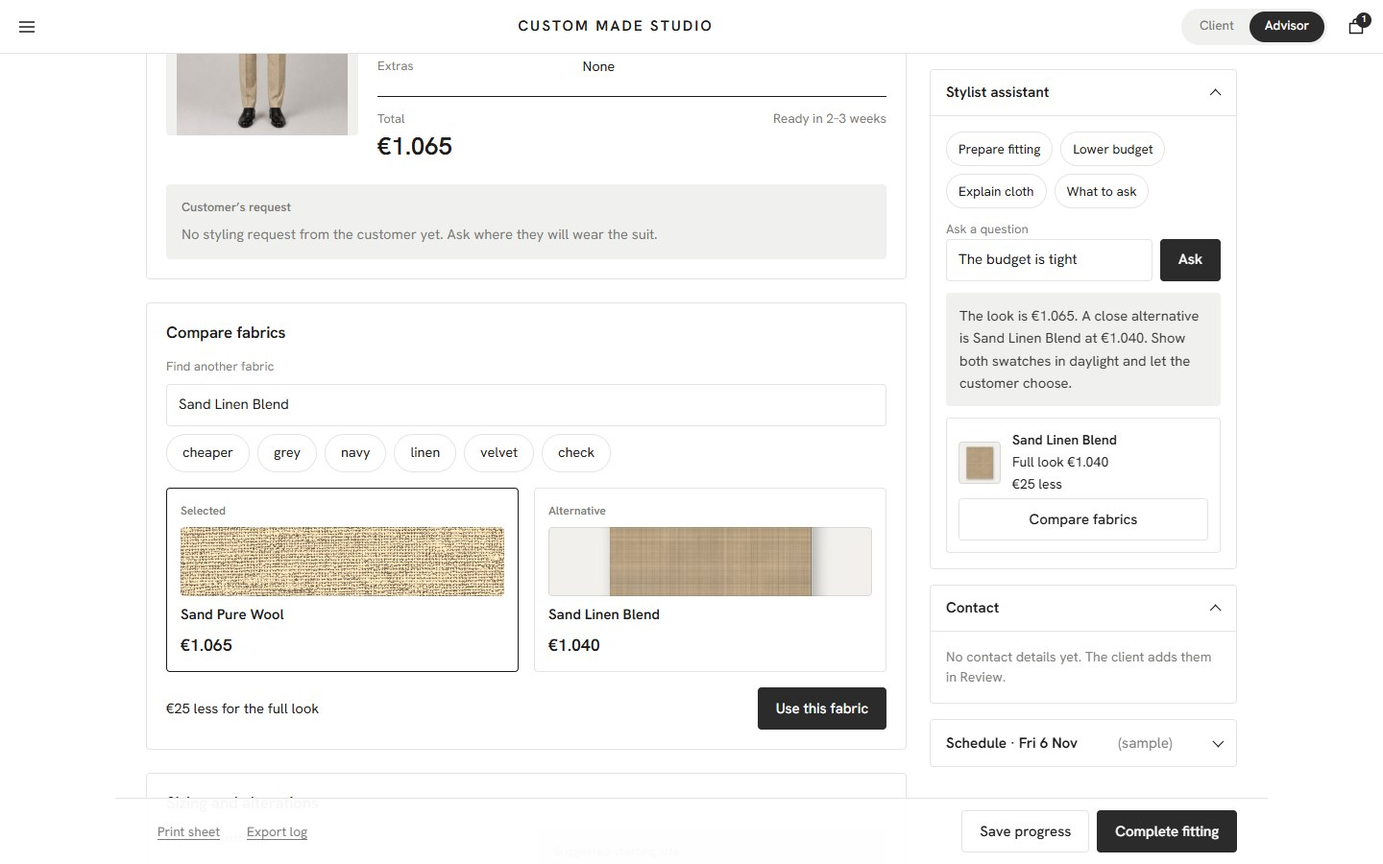
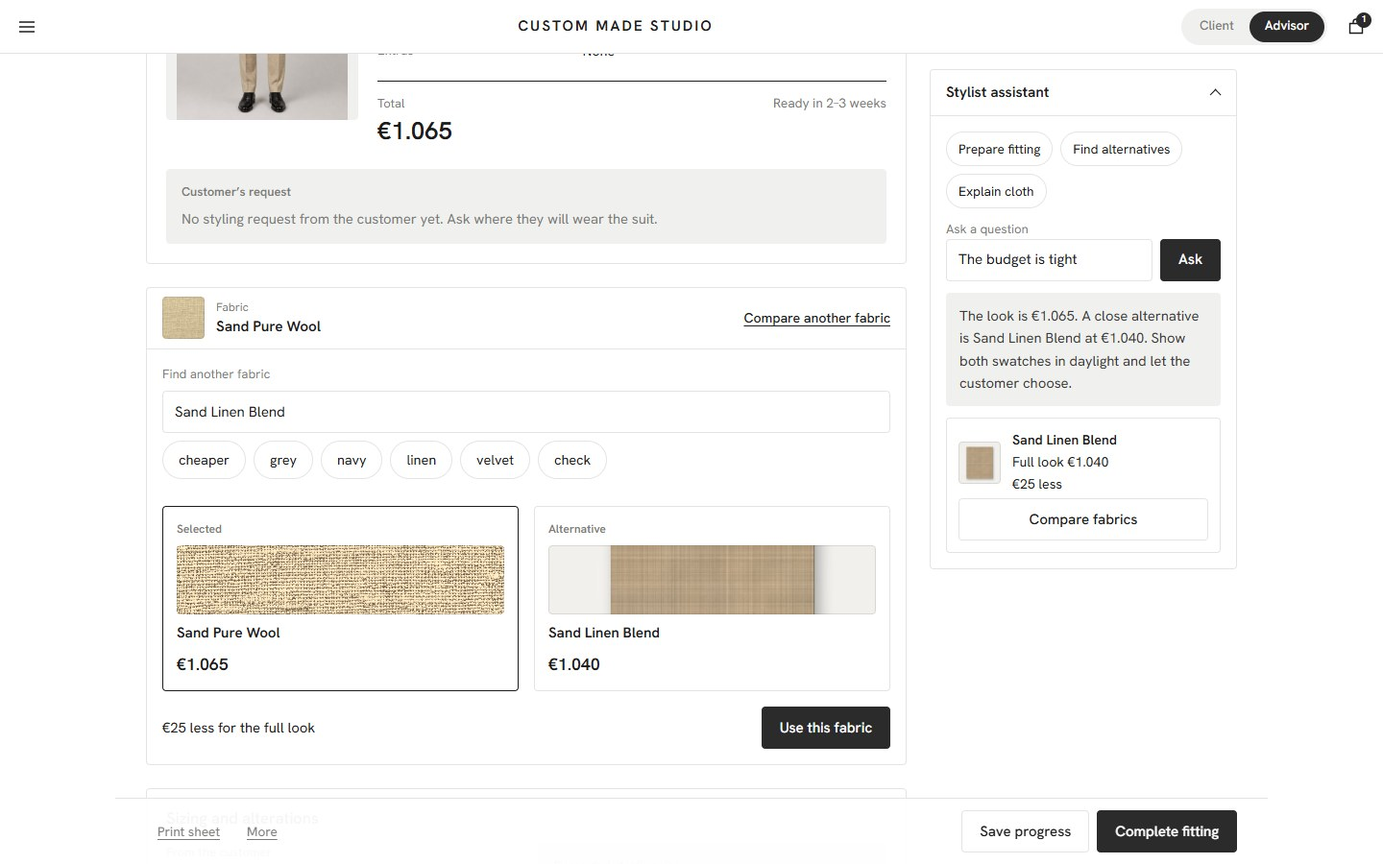
Advisor: simpler view (no sample schedule, collapsed fabric comparison and contact, compact final sizes, reason only when sizes differ, three assistant shortcuts, Export log under More); screenshots and 104 checks

diff --git a/js/app.js b/js/app.js
@@ -550,7 +550,7 @@
   }
   /* transient advisor interface state: kept here so a re-render never loses what the advisor was doing */
   var advUi = { walk: false, follow: false, question: '', search: '', answer: null, status: null };
-  function advReset() { advUi.walk = false; advUi.follow = false; advUi.question = ''; advUi.search = ''; advUi.answer = null; advUi.status = null; advUi.assist = false; }
+  function advReset() { advUi.walk = false; advUi.follow = false; advUi.question = ''; advUi.search = ''; advUi.answer = null; advUi.status = null; advUi.assist = false; advUi.fabric = false; advUi.sizes = false; }
   function flash(message, kind) {
     var d = new Date(), at = String(d.getHours()).padStart(2, '0') + ':' + String(d.getMinutes()).padStart(2, '0');
     advUi.status = { text: message, kind: kind || 'ok', at: at };
@@ -586,6 +586,7 @@
       var alt = a && a.alt;
       altBox.hidden = !alt;
       if (alt) {
+        if (!a.seen) { a.seen = true; advUi.fabric = true; if ($('advFabric')) $('advFabric').open = true; }
         var now = eur(cloth().usd), diff = eur(alt.usd) - now;
         $('stylistAltSwatch').setAttribute('style', swatch(alt, 60));
         $('stylistAltName').textContent = alt.name;
@@ -641,7 +642,6 @@
         (current.wear || '') + ' With the details we’ve selected, the total is ' + money(fullPrice) +
         '. How does this cloth feel to you?”');
     };
-    $('stylistAsk').onclick = function () { input.value = 'What should I ask first?'; advUi.question = input.value; $('stylistFree').requestSubmit(); };
     $('stylistCompare').onclick = function () {
       var alt = advUi.answer && advUi.answer.alt; if (!alt) return;
       var select = $('altCloth'); select.value = alt.id; $('altSearch').value = alt.name; advUi.search = alt.name; $('altResults').hidden = true; select.onchange();
@@ -866,14 +866,6 @@
     window.scrollTo({ top: 0, behavior: 'smooth' });
   }
   function escapeName(value) { var span = document.createElement('span'); span.textContent = value; return span.innerHTML; }
-  function scheduleHtml() {
-    var day = (st.slot || SLOTS[0]).split(',')[0];
-    var rows = SLOTS.filter(function (l) { return l.split(',')[0] === day; }).map(function (l) {
-      var t = l.split(',')[1].trim(), mine = st.slot === l, booked = SLOT_BOOKED[l];
-      return '<div class="' + (mine ? 'mine' : booked ? 'busy' : 'free') + '"><span class="t">' + t + '</span><span>' + (mine ? escapeName(st.name || 'This client') : booked ? SLOT_WHO[l] : 'Open') + '</span><span class="st">' + (mine ? 'This client' : booked ? 'Booked' : 'Free') + '</span></div>';
-    }).join('');
-    return { day: day, html: '<div class="sched">' + rows + '</div>' };
-  }
   function contactHtml() {
     var esc = function (t) { return String(t).replace(/[&<>"]/g, function (m) { return { '&': '&amp;', '<': '&lt;', '>': '&gt;', '"': '&quot;' }[m]; }); };
     var okMail = /^[^\s@]+@[^\s@]+\.[^\s@]+$/.test(st.email), okTel = /^[+0-9][0-9 ()-]{6,}$/.test(st.phone);
@@ -893,18 +885,16 @@
     /* keep what the advisor was doing: focus, caret and scroll position */
     var ae = document.activeElement, keep = ae && ae.id && box.contains(ae) ? { id: ae.id, s: ae.selectionStart, e: ae.selectionEnd } : null, scrollY = window.scrollY;
     var ex = D.extras.filter(function (x) { return st.on[x.id]; }).map(function (x) { return x.id === 'shoes' ? x.name + ' (' + shoeSel().name.toLowerCase() + ')' : x.name + (st.col[x.id] ? ' (' + cname(st.col[x.id]).toLowerCase() + ')' : ''); });
-    var checks = ['Pull ' + c.name + ' from the cloth book'];
-    if (!st.size) checks.push('No size chosen yet. Measure and find a starting size by try-on');
-    else if (st.level === 'Low') checks.push('Low confidence on ' + sizeText() + '. Measure before the fitting');
-    else checks.push('Try on ' + sizeText() + ' (' + (st.level || 'medium').toLowerCase() + ' confidence)');
-    D.adjustments.forEach(function (a) { var v = st.adj[a.key]; if (v) checks.push(a.label + ' ' + (v > 0 ? '+' : '') + v + ' cm requested'); });
-    if (ex.length) checks.push('Have ready: ' + ex.join(', ').toLowerCase());
+    var checks = [];
+    if (!st.size) checks.push('Starting size needs confirmation: the customer has not chosen one. Try it on first');
+    else if (st.level === 'Low') checks.push('Starting size needs confirmation: low confidence on ' + sizeText() + '. Measure before the try-on');
+    else if (st.level === 'Medium') checks.push('Confirm the starting size ' + sizeText() + ' at the try-on (medium confidence)');
     if (st.mono.trim()) checks.push('Embroider initials ' + st.mono.toUpperCase() + ' inside the jacket lining');
     var when = st.slot ? st.slot + ', ' + st.city : st.walk ? 'Walk-in' : 'No appointment yet';
     if (!st.agreed) st.agreed = {};
     var agreed = Object.assign({}, st.adj, st.agreed);
+    var differs = (st.finalSize && st.finalSize !== sg.size) || (st.finalPants && st.finalPants !== pantsSize());
     var dz = curDesign(), status = st.outcome || deciding, statusClass = status === orderReview ? 'is-ready' : status === followUp ? 'is-follow' : 'is-open';
-    var sched = scheduleHtml();
     box.innerHTML =
       '<div class="adv-ws">' +
       /* appointment tools, kept apart from the active fitting */
@@ -934,8 +924,7 @@
               '<div class="adv-brief" id="advBrief"><h4>Customer’s request</h4><p id="advBriefText"></p><img id="advReference" hidden alt="Customer’s inspiration photo"></div>' +
             '</div>' +
           '</section>' +
-          '<section class="adv-card adv-noprint" id="advFabric" aria-labelledby="advFabricH">' +
-            '<h3 id="advFabricH">Compare fabrics</h3>' +
+          '<details class="adv-card adv-noprint" id="advFabric"><summary><span class="adv-fab-sel"><i id="fabSwatch" class="adv-swatch is-small"></i><span class="adv-fab-name"><span class="adv-fab-label">Fabric</span><b>' + escapeName(c.name) + '</b></span></span><span class="adv-fab-act">Compare another fabric</span></summary><div class="adv-detail-body">' +
             '<div class="adv-search-wrap"><label for="altSearch">Find another fabric</label><div class="alt-search"><input id="altSearch" type="search" role="combobox" aria-expanded="false" aria-controls="altResults" aria-autocomplete="list" placeholder="Type a colour, weave or name" autocomplete="off"><div class="alt-results" id="altResults" role="listbox" aria-label="Matching fabrics" hidden></div></div><div class="chips" id="altKeywords" aria-label="Keywords"></div></div>' +
             '<input type="hidden" id="altCloth">' +
             '<div id="clothPair" class="adv-pair" hidden>' +
@@ -943,17 +932,22 @@
               '<div class="adv-opt" aria-label="Alternative fabric"><span class="adv-opt-tag">Alternative</span><i id="secondSwatch" class="adv-swatch"></i><b id="secondName"></b><span class="adv-opt-total" id="secondPrice"></span></div>' +
               '<div class="adv-pair-foot"><p id="priceChange" class="adv-diff"></p><button type="button" class="btn" id="applyAlt">Use this fabric</button></div>' +
             '</div>' +
-          '</section>' +
+          '</div></details>' +
           '<section class="adv-card" id="advFit" aria-labelledby="advFitH">' +
             '<h3 id="advFitH">Sizing and alterations</h3>' +
             '<div class="adv-two">' +
               '<div><h4>From the customer</h4>' + advRows([['Height and weight', st.h + ' cm, ' + st.w + ' kg'], ['Usual size', st.notSure ? 'Not sure' + (st.chest ? ', chest ' + st.chest + ' cm' : '') : String(st.usual)], ['Fit preference', escapeName(st.pref)], ['Suggested trouser size', String(pantsSize())], ['Photo for the advisor', st.self ? 'Provided' : 'None']]) + '</div>' +
               '<div class="adv-start"><h4>Suggested starting size</h4><p class="adv-start-size"><b>' + sizeLabel(sg.size, sg.group) + ' ' + cap(sg.group) + '</b><span class="pill ' + sg.level.toLowerCase() + '">' + sg.level + ' confidence</span></p><p class="adv-start-why">' + sg.text + '</p></div>' +
             '</div>' +
-            '<div class="adv-block"><h4>Check first</h4><ul class="adv-list">' + checks.map(function (x) { return '<li>' + x + '</li>'; }).join('') + '</ul></div>' +
-            '<div class="adv-block"><h4 id="finalJacketLbl">Final jacket size</h4><div class="chips" id="advSizes" role="group" aria-labelledby="finalJacketLbl"></div><p class="cmp" id="advCmp"></p></div>' +
-            '<div class="adv-block"><h4 id="finalTrouserLbl">Final trouser size</h4><div class="chips" id="advPants" role="group" aria-labelledby="finalTrouserLbl"></div><p class="cmp" id="advPCmp"></p></div>' +
-            '<div class="adv-block"><h4 id="whyLbl">What changed? <span class="muted">optional</span></h4><div class="chips" id="advWhy" role="group" aria-labelledby="whyLbl"></div></div>' +
+            (checks.length ? '<div class="adv-block"><h4>Check first</h4><ul class="adv-list">' + checks.map(function (x) { return '<li>' + x + '</li>'; }).join('') + '</ul></div>' : '') +
+            '<div class="adv-block adv-final"><div class="adv-final-head"><h4>Final sizes</h4><button type="button" class="btn ghost adv-noprint" id="advSizeToggle" aria-expanded="' + (advUi.sizes ? 'true' : 'false') + '" aria-controls="advSizePick">' + (advUi.sizes ? 'Done' : (st.finalSize || st.finalPants ? 'Change' : 'Choose')) + '</button></div>' +
+              '<p class="adv-final-line" id="advFinalLine">' + (st.finalSize ? 'Jacket <b>' + sizeLabel(st.finalSize, g) + '</b>' : 'Jacket <span class="muted">not chosen</span>') + ' · ' + (st.finalPants ? 'Trousers <b>' + st.finalPants + '</b>' : 'Trousers <span class="muted">not chosen</span>') + '</p>' +
+              '<div id="advSizePick" class="adv-size-pick"' + (advUi.sizes ? '' : ' hidden') + '>' +
+                '<h4 id="finalJacketLbl">Final jacket size</h4><div class="chips" id="advSizes" role="group" aria-labelledby="finalJacketLbl"></div>' +
+                '<h4 id="finalTrouserLbl">Final trouser size</h4><div class="chips" id="advPants" role="group" aria-labelledby="finalTrouserLbl"></div>' +
+              '</div>' +
+              '<p class="cmp" id="advCmp"></p><p class="cmp" id="advPCmp"></p></div>' +
+            (differs ? '<div class="adv-block"><h4 id="whyLbl">Reason for change <span class="muted">optional</span></h4><div class="chips" id="advWhy" role="group" aria-labelledby="whyLbl"></div></div>' : '') +
             '<div class="adv-block"><h4>Alterations <span class="muted">in centimetres</span></h4><div class="adv-alt-head" aria-hidden="true"><span>Alteration</span><span>Requested</span><span>Agreed</span></div><div class="adjs" id="advAdjs"></div></div>' +
             '<div class="adv-block"><label for="advNotes" class="adv-label">Workroom notes</label><textarea id="advNotes" placeholder="Shoulders, posture, anything for the workroom"></textarea><div class="adv-print-only" id="advNotesPrint"></div></div>' +
           '</section>' +
@@ -965,17 +959,16 @@
         '</div>' +
         '<aside class="adv-side" aria-label="Stylist assistant and contact">' +
           '<details class="adv-card adv-assist adv-noprint" id="advAssist" open><summary>Stylist assistant</summary><div class="adv-assist-body">' +
-            '<div class="adv-suggest" id="stylistChips" role="group" aria-label="Suggestions"><button type="button" class="chip" id="stylistPrep">Prepare fitting</button><button type="button" class="chip" id="stylistFabric">Lower budget</button><button type="button" class="chip" id="stylistExplain">Explain cloth</button><button type="button" class="chip" id="stylistAsk">What to ask</button></div>' +
+            '<div class="adv-suggest" id="stylistChips" role="group" aria-label="Suggestions"><button type="button" class="chip" id="stylistPrep">Prepare fitting</button><button type="button" class="chip" id="stylistFabric">Find alternatives</button><button type="button" class="chip" id="stylistExplain">Explain cloth</button></div>' +
             '<form id="stylistFree" class="adv-ask"><label for="stylistQuestion">Ask a question</label><div class="ask-row"><input id="stylistQuestion" type="text" maxlength="700" placeholder="For example: is the size right?" autocomplete="off"><button class="btn" id="stylistSend">Ask</button></div></form>' +
             '<div id="stylistReply" aria-live="polite" aria-busy="false"><p id="stylistAnswer" class="adv-answer is-empty"></p>' +
               '<div id="stylistAlt" class="adv-alt" hidden><i id="stylistAltSwatch" class="adv-swatch is-small"></i><div class="adv-alt-text"><b id="stylistAltName"></b><span id="stylistAltTotal"></span><span id="stylistAltDiff"></span></div><button type="button" class="btn ghost" id="stylistCompare">Compare fabrics</button></div>' +
             '</div>' +
           '</div></details>' +
-          '<details class="adv-card adv-contact" id="advContact" open><summary>Contact</summary><div class="adv-detail-body">' + contactHtml() + '</div></details>' +
-          '<details class="adv-card adv-noprint" id="advSchedule"><summary>Schedule · ' + sched.day + ' <span class="muted">(sample)</span></summary><div class="adv-detail-body">' + sched.html + '</div></details>' +
+          '<details class="adv-card adv-contact" id="advContact"><summary>Contact</summary><div class="adv-detail-body">' + contactHtml() + '</div></details>' +
         '</aside>' +
       '</div>' +
-      '<div class="adv-actions adv-noprint"><div class="adv-actions-quiet"><button type="button" class="adv-quiet" id="advPrint">Print sheet</button><button type="button" class="adv-quiet" id="advCsv">Export log</button></div><p id="advStatus" class="adv-status-line" role="status" aria-live="polite"></p><div class="adv-actions-main"><button type="button" class="btn ghost" id="advDraft">Save progress</button><button type="button" class="btn" id="advSave">Complete fitting</button></div></div>' +
+      '<div class="adv-actions adv-noprint"><div class="adv-actions-quiet"><button type="button" class="adv-quiet" id="advPrint">Print sheet</button><details class="adv-more"><summary class="adv-quiet">More</summary><div class="adv-more-menu"><button type="button" class="adv-quiet" id="advCsv">Export log</button></div></details></div><p id="advStatus" class="adv-status-line" role="status" aria-live="polite"></p><div class="adv-actions-main"><button type="button" class="btn ghost" id="advDraft">Save progress</button><button type="button" class="btn" id="advSave">Complete fitting</button></div></div>' +
       '</div>';
 
     fill('advSizes', D.sizes.map(function (x) { var b = chip(sizeLabel(x, g), st.finalSize === x, function () { st.finalSize = st.finalSize === x ? null : x; renderAdvisor(); }); b.id = 'advSize-' + x; return b; }));
@@ -984,8 +977,11 @@
     fill('advPants', D.pantsSizes.map(function (x) { var b = chip(String(x), st.finalPants === x, function () { st.finalPants = st.finalPants === x ? null : x; renderAdvisor(); }); b.id = 'advPantsSize-' + x; return b; }));
     var pcmp = $('advPCmp');
     if (st.finalPants) { var psame = st.finalPants === pantsSize(); pcmp.className = 'cmp ' + (psame ? 'ok' : 'diff'); pcmp.textContent = psame ? 'Matches the suggestion.' : 'Differs from the suggestion (' + pantsSize() + ' suggested, ' + st.finalPants + ' final).'; }
-    fill('advWhy', WHY.map(function (w, i) { var b = chip(w, st.why.indexOf(w) > -1, function () { var k = st.why.indexOf(w); if (k > -1) st.why.splice(k, 1); else st.why.push(w); renderAdvisor(); }); b.id = 'advWhy-' + i; return b; }));
+    if ($('advWhy')) fill('advWhy', WHY.map(function (w, i) { var b = chip(w, st.why.indexOf(w) > -1, function () { var k = st.why.indexOf(w); if (k > -1) st.why.splice(k, 1); else st.why.push(w); renderAdvisor(); }); b.id = 'advWhy-' + i; return b; }));
     $('advCsv').onclick = exportFitLog;
+    $('fabSwatch').setAttribute('style', swatch(c, 60));
+    var fab = $('advFabric'); fab.open = !!advUi.fabric; fab.ontoggle = function () { advUi.fabric = fab.open; };
+    $('advSizeToggle').onclick = function () { advUi.sizes = !advUi.sizes; renderAdvisor(); };
     $('advBriefText').textContent = st.brief || (st.reference ? '' : 'No styling request from the customer yet. Ask where they will wear the suit.');
     $('advBriefText').className = st.brief || st.reference ? '' : 'adv-empty';
     if (st.reference) { $('advReference').src = st.reference; $('advReference').hidden = false; }
@@ -1015,7 +1011,7 @@
       } catch (e) { $('advLog').textContent = 'Could not save in this browser.'; flash('Could not save in this browser.', 'error'); }
     };
     $('advSave').onclick = function () {
-      if (!st.finalSize) { $('advLog').textContent = 'Choose the final size first.'; flash('Choose the final jacket size first.', 'error'); return; }
+      if (!st.finalSize) { $('advLog').textContent = 'Choose the final size first.'; advUi.sizes = true; renderAdvisor(); flash('Choose the final jacket size first.', 'error'); return; }
       try {
         st.agreed = Object.assign({}, st.adj, st.agreed);
         st.outcome = orderReview; st.followDate = ''; st.nextStep = '';

diff --git a/css/style.css b/css/style.css
@@ -577,7 +577,9 @@ body.adv .panel{border-left:0}
 /* grid */
 .adv-grid{display:grid;grid-template-columns:minmax(0,1fr) 320px;gap:var(--gap);align-items:start}
 .adv-main{display:grid;gap:var(--gap);min-width:0}
-.adv-side{display:grid;gap:16px;min-width:0;position:sticky;top:calc(var(--bar) + 16px);max-height:calc(100vh - var(--bar) - 32px);overflow:auto}
+.adv-side{display:grid;gap:16px;min-width:0;align-self:stretch;align-content:start}
+.adv-assist{position:sticky;top:calc(var(--bar) + 16px);z-index:2}
+.adv-assist-body{max-height:calc(100vh - var(--bar) - 120px);overflow:auto}
 .adv-card{border:1px solid var(--line);border-radius:var(--r);background:#fff;padding:20px;min-width:0}
 .adv-card-head{display:flex;justify-content:space-between;align-items:center;gap:12px;margin-bottom:16px}
 .adv-main .adv-card > h3{margin-bottom:16px}
@@ -679,7 +681,9 @@ details.adv-card[open] > summary{border-bottom:1px solid var(--line)}
   .adv-main{display:contents}
   .adv-main > *{order:3}
   .adv-main > #advLook{order:1}
-  .adv-side{order:2;position:static;max-height:none;overflow:visible}
+  .adv-side{order:2;align-self:auto}
+  .adv-assist{position:static}
+  .adv-assist-body{max-height:none}
 }
 @media (max-width:767px){
   .adv-ws{padding-top:16px}
@@ -705,7 +709,8 @@ details.adv-card[open] > summary{border-bottom:1px solid var(--line)}
   .adv-noprint{display:none!important}
   .adv-ws{max-width:none;padding:0;font-size:12px}
   .adv-grid{display:block}
-  .adv-side{position:static;max-height:none;overflow:visible;display:block}
+  .adv-side{display:block}
+  .adv-assist{position:static}
   .adv-card{border:0;border-bottom:1px solid #ccc;border-radius:0;padding:10px 0;break-inside:avoid}
   details.adv-card > summary{display:none}
   .adv-print-only{display:block;white-space:pre-line}
@@ -713,3 +718,24 @@ details.adv-card[open] > summary{border-bottom:1px solid var(--line)}
   .adv-ws .stepper button{display:none}
   .adv-ws .chip[aria-pressed=false]{display:none}
 }
+
+/* simplification pass */
+details.adv-card.adv-fabric,#advFabric{padding:0}
+#advFabric > summary{min-height:64px;padding:8px 16px;gap:16px}
+.adv-fab-sel{display:flex;align-items:center;gap:12px;min-width:0}
+.adv-fab-name{display:grid;min-width:0}
+.adv-fab-label{font-size:.75rem;font-weight:400;color:var(--muted)}
+.adv-fab-name b{font-weight:600;overflow-wrap:anywhere}
+.adv-fab-act{margin-left:auto;font-size:.88rem;font-weight:500;text-decoration:underline;text-underline-offset:3px;white-space:nowrap}
+#advFabric > summary::after{display:none}
+.adv-final-head{display:flex;justify-content:space-between;align-items:center;gap:12px}
+.adv-final-head h4{margin:0}
+.adv-final-line{margin-top:8px;font-size:1rem}
+.adv-size-pick{margin-top:12px;display:grid;gap:8px}
+.adv-size-pick h4{margin:8px 0 0}
+.adv-more{position:relative}
+.adv-more > summary{list-style:none;display:flex;align-items:center;cursor:pointer}
+.adv-more > summary::-webkit-details-marker{display:none}
+.adv-more-menu{position:absolute;bottom:100%;left:0;margin-bottom:4px;background:#fff;border:1px solid var(--line);border-radius:var(--r);box-shadow:0 8px 24px rgba(0,0,0,.1);padding:4px;min-width:140px;z-index:5}
+.adv-more-menu .adv-quiet{display:block;width:100%;text-align:left}
+@media (max-width:767px){.adv-fab-act{white-space:normal;text-align:right;max-width:9em}}

diff --git a/tests/stylist-test.html b/tests/stylist-test.html
@@ -240,6 +240,8 @@
     group('Advisor workspace: compare fabrics, apply, save, complete');
     var cur = doc.getElementById('advFabric') ? 'present' : 'missing';
     record('advisor workspace', 'has look, fabric, sizing and outcome sections', cur, ['advLook', 'advFabric', 'advFit', 'advOutcome'].every(function (id) { return !!doc.getElementById(id); }));
+    record('simplified advisor', 'no sample schedule, three assistant shortcuts, contact collapsed, fabric comparison open after the assistant recommended one', 'chips ' + doc.querySelectorAll('#stylistChips .chip').length, !doc.getElementById('advSchedule') && doc.querySelectorAll('#stylistChips .chip').length === 3 && doc.getElementById('advFabric').open && !doc.getElementById('advContact').open);
+    record('reason for change', 'shown only when a final size differs from its suggestion', doc.getElementById('advWhy') ? 'shown' : 'hidden', !doc.querySelector('#advSizes .chip[aria-pressed=true]') && !doc.querySelector('#advPants .chip[aria-pressed=true]') ? !doc.getElementById('advWhy') : true);
     doc.getElementById('advNotes').value = 'Left shoulder drops'; doc.getElementById('advNotes').dispatchEvent(new win.Event('input'));
     var picks = await findCloth('velvet');
     var firstItem = doc.querySelector('#altResults .alt-item'); if (firstItem) firstItem.click(); await w(250);

diff --git a/index.html b/index.html
@@ -8,7 +8,7 @@
 <link rel="preconnect" href="https://fonts.googleapis.com">
 <link rel="preconnect" href="https://fonts.gstatic.com" crossorigin>
 <link rel="stylesheet" href="https://fonts.googleapis.com/css2?family=Hanken+Grotesk:wght@400;500;600&family=IBM+Plex+Mono:wght@500&display=swap">
-<link rel="stylesheet" href="css/style.css?v=131">
+<link rel="stylesheet" href="css/style.css?v=134">
 </head>
 <body>
 
@@ -319,10 +319,10 @@
   <p id="zoomCaption">High-resolution product image</p>
 </div>
 
-<script src="js/data.js?v=131"></script>
-<script src="js/config.js?v=131"></script>
-<script src="js/assistant.js?v=131"></script>
-<script src="js/stylist.js?v=131"></script>
-<script src="js/app.js?v=131"></script>
+<script src="js/data.js?v=134"></script>
+<script src="js/config.js?v=134"></script>
+<script src="js/assistant.js?v=134"></script>
+<script src="js/stylist.js?v=134"></script>
+<script src="js/app.js?v=134"></script>
 </body>
 </html>

diff --git a/README.md b/README.md
@@ -45,13 +45,13 @@ The same page has two views, switched at the top right. The customer builds the 
 
 ### For the style advisor
 
-- **A calm, compact workspace** (tablet first): customer name, appointment and fitting code at the top; open a fitting or start a walk-in from a small toolbar, with follow-ups in an expandable list. On wide screens the stylist assistant sits beside the fitting; on a tablet it folds under the look summary.
-- **Look and brief:** the full suit photo, fabric, design, total and delivery estimate, the customer's own request and inspiration photo, and "Edit look together".
-- **Compare fabrics side by side:** search by colour, weave or name (arrow keys and Enter work), see both full-outfit totals and the difference, then "Use this fabric". Sizes, alterations and notes are kept.
-- **Sizing and alterations:** what the customer gave, the suggested starting size with its reason, the advisor's final jacket and trouser size, alterations as requested against agreed in cm, and workroom notes right under them.
-- **Appointment outcome:** status, next step and follow-up date. "Save progress" works without a final size; "Complete fitting" asks for one. The saved message just shows the fitting code.
-- **Stylist assistant:** four suggestions (Prepare fitting, Lower budget, Explain cloth, What to ask) and a question box. When it suggests another fabric it shows the name, new total, the difference and a Compare fabrics button. It answers on the device without any cloud service; an optional hosted AI can be connected (see below).
-- **Measure what works:** each saved fitting records suggested against final size. "Export log" gives a CSV with a version tag for the sizing rules.
+- **A calm, compact workspace** (tablet first): customer name, appointment and fitting code at the top; open a fitting or start a walk-in from a small toolbar, with follow-ups in an expandable list. The stylist assistant stays in view beside the fitting on wide screens and folds under the look summary on a tablet. Contact details are collapsed until needed.
+- **Look and brief:** the full suit photo, fabric, design, total and delivery estimate, the customer's request and inspiration photo, and "Edit look together".
+- **Fabric:** the chosen cloth sits in one line with "Compare another fabric". It opens by itself when the assistant recommends an alternative, with both fabrics side by side, their totals, the difference and one "Use this fabric" button. Sizes, alterations and notes are kept.
+- **Sizing and alterations:** what the customer gave, the suggested starting size with its reason, only the things that need attention under "Check first", final jacket and trouser sizes shown compactly with a Change button, a reason for change only when a final size differs from the suggestion, alterations as requested against agreed in cm, and workroom notes under them.
+- **Appointment outcome:** status, next step and follow-up date. "Save progress" works without a final size; "Complete fitting" asks for one. The saved message just shows the fitting code. Print sheet is in the bar; Export log is under More.
+- **Stylist assistant:** three shortcuts (Prepare fitting, Find alternatives, Explain cloth) and a question box. When it suggests another fabric it shows the name, new total and difference with a Compare fabrics button. It answers on the device without any cloud service; an optional hosted AI can be connected (see below).
+- **Measure what works:** each saved fitting records suggested against final size, exported as CSV with a version tag for the sizing rules.
 
 | Advisor workspace on a tablet | Start a walk-in |
 |---|---|
